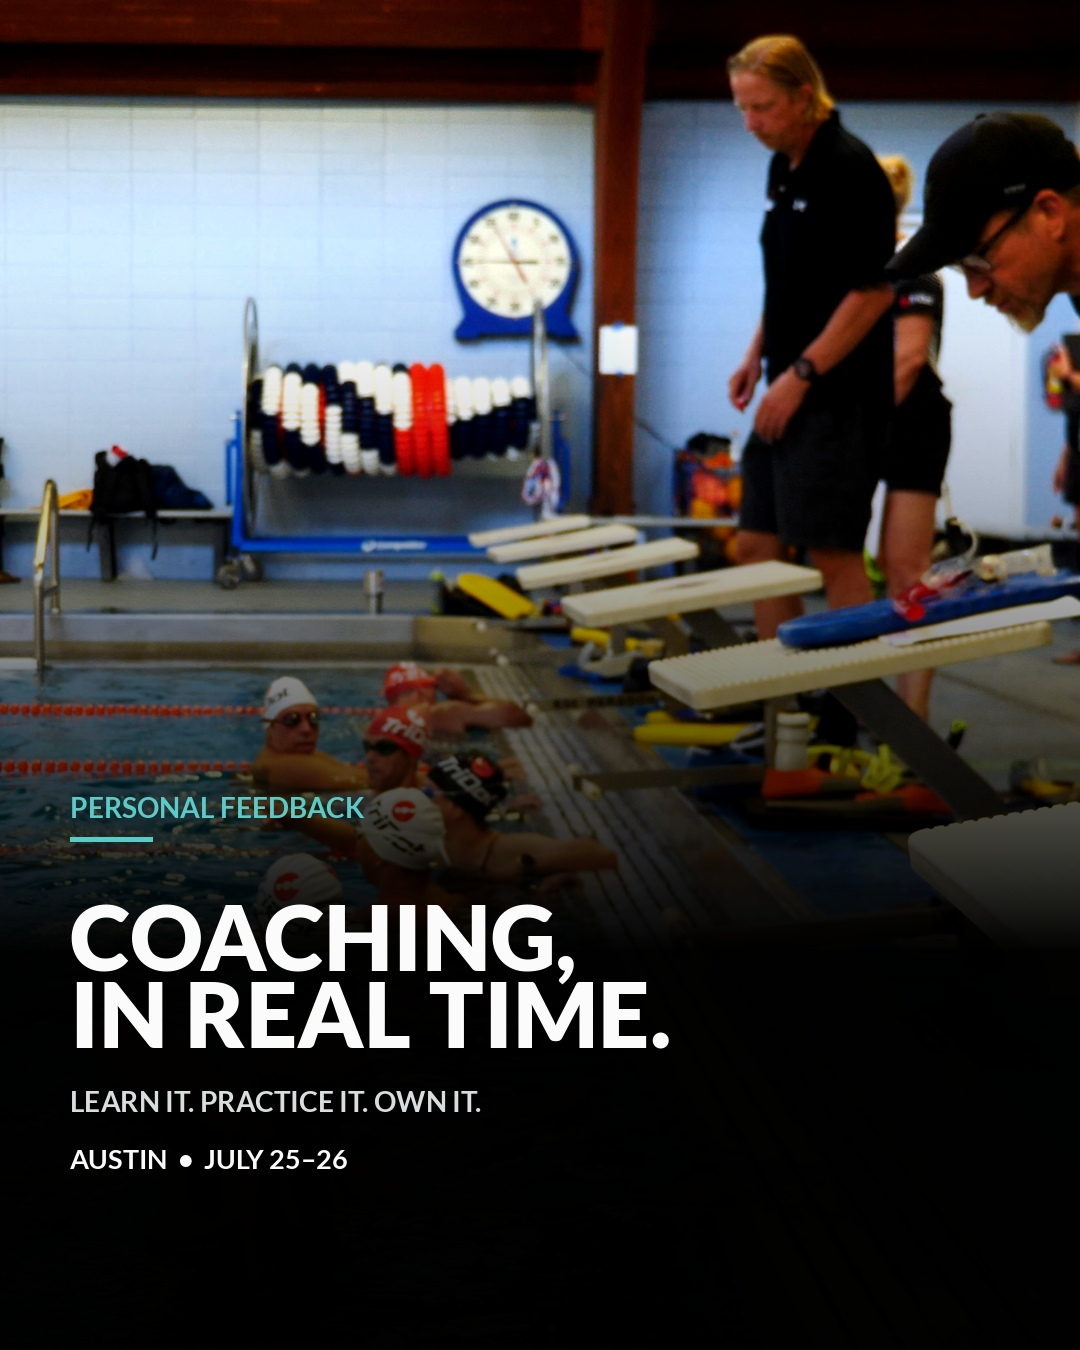
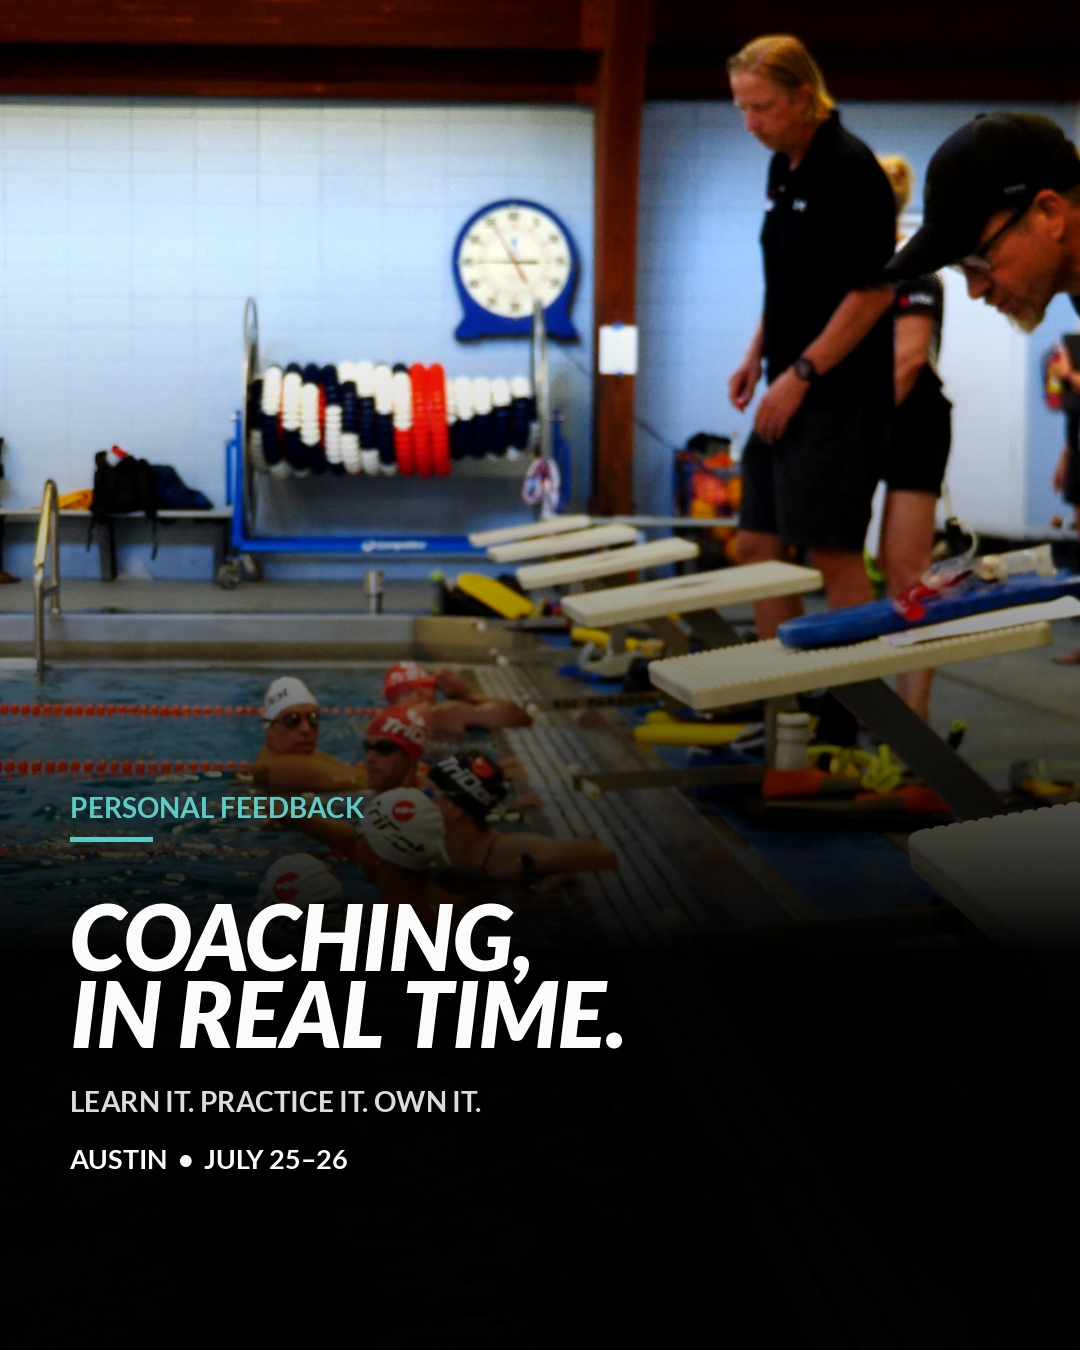
Use Pool School-style italic headlines on Austin campaign

Changed region(s): [[0.0611, 0.6533, 0.6111, 0.7778]]

diff --git a/austin-pool-school-review/index.html b/austin-pool-school-review/index.html
@@ -15,5 +15,5 @@ const posts=[
 ['08-detail-matters.jpg','VALUE','The details make the difference','Small technique changes can lead to meaningful progress. Get focused coaching and drills designed to help you apply it back in your own training.'],
 ['09-personal-feedback.jpg','VALUE','Real-time feedback','See it. Understand it. Practice it. Bring your swim questions to Austin and leave with practical tools for your next session.'],
 ['10-austin-register-now.jpg','EVENT PROMO','Austin Pool School: Register now','July 25–26, 2026 · Austin Aquatics and Sports Academy · $599\n\nYour next opportunity to break out of the dreaded swim plateau starts here. Register now.']
-];let i=0;const $=id=>document.getElementById(id);function render(){let p=posts[i];$('title').textContent=`Post ${i+1} of ${posts.length}`;$('graphic').src='./assets/'+p[0]+'?v=dark-footer-20260710';$('headline').textContent=p[2];$('caption').textContent=p[3];$('type').textContent=p[1];$('prev').disabled=i===0;$('next').disabled=i===posts.length-1;$('thumbs').innerHTML=posts.map((x,n)=>`<button class="thumb ${n===i?'active':''}" aria-label="View post ${n+1}" onclick="go(${n})"><img src="./assets/${x[0]}?v=dark-footer-20260710"></button>`).join('')};function go(n){i=n;render()}$('prev').onclick=()=>go(i-1);$('next').onclick=()=>go(i+1);document.addEventListener('keydown',e=>{if(e.key==='ArrowLeft'&&i)go(i-1);if(e.key==='ArrowRight'&&i<posts.length-1)go(i+1)});render();
+];let i=0;const $=id=>document.getElementById(id);function render(){let p=posts[i];$('title').textContent=`Post ${i+1} of ${posts.length}`;$('graphic').src='./assets/'+p[0]+'?v=website-headlines-20260710';$('headline').textContent=p[2];$('caption').textContent=p[3];$('type').textContent=p[1];$('prev').disabled=i===0;$('next').disabled=i===posts.length-1;$('thumbs').innerHTML=posts.map((x,n)=>`<button class="thumb ${n===i?'active':''}" aria-label="View post ${n+1}" onclick="go(${n})"><img src="./assets/${x[0]}?v=website-headlines-20260710"></button>`).join('')};function go(n){i=n;render()}$('prev').onclick=()=>go(i-1);$('next').onclick=()=>go(i+1);document.addEventListener('keydown',e=>{if(e.key==='ArrowLeft'&&i)go(i-1);if(e.key==='ArrowRight'&&i<posts.length-1)go(i+1)});render();
 </script></body></html>
